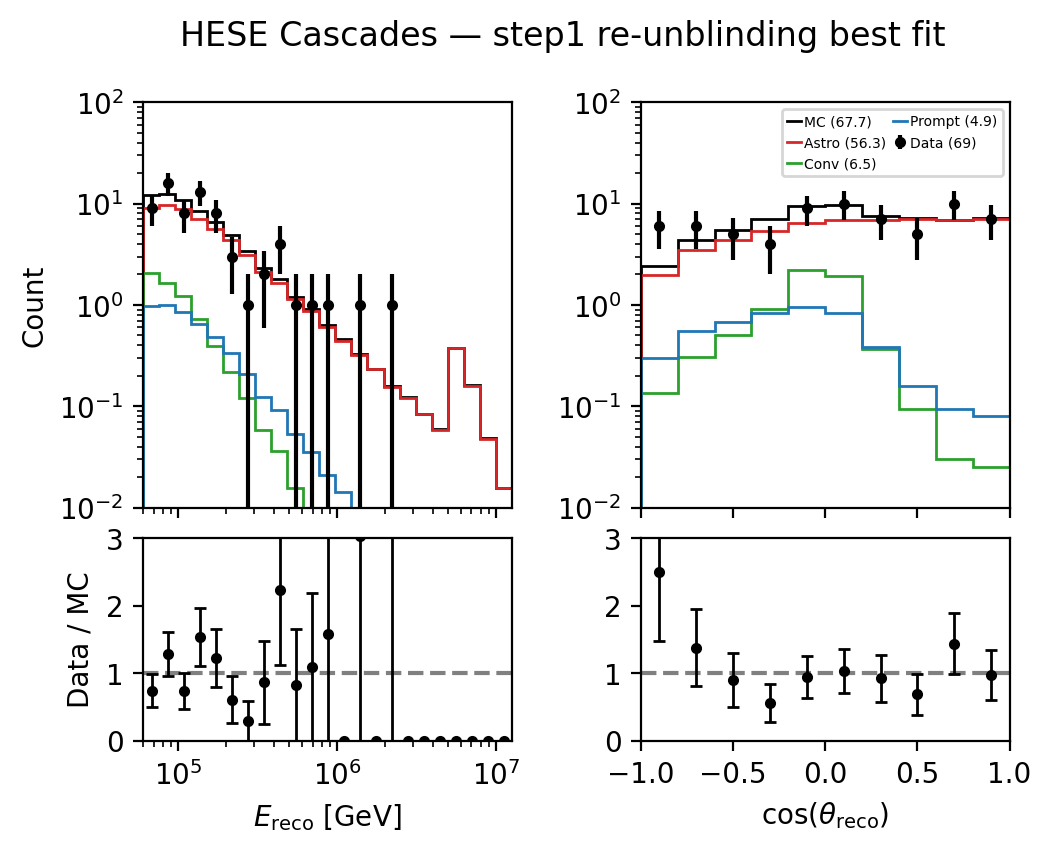
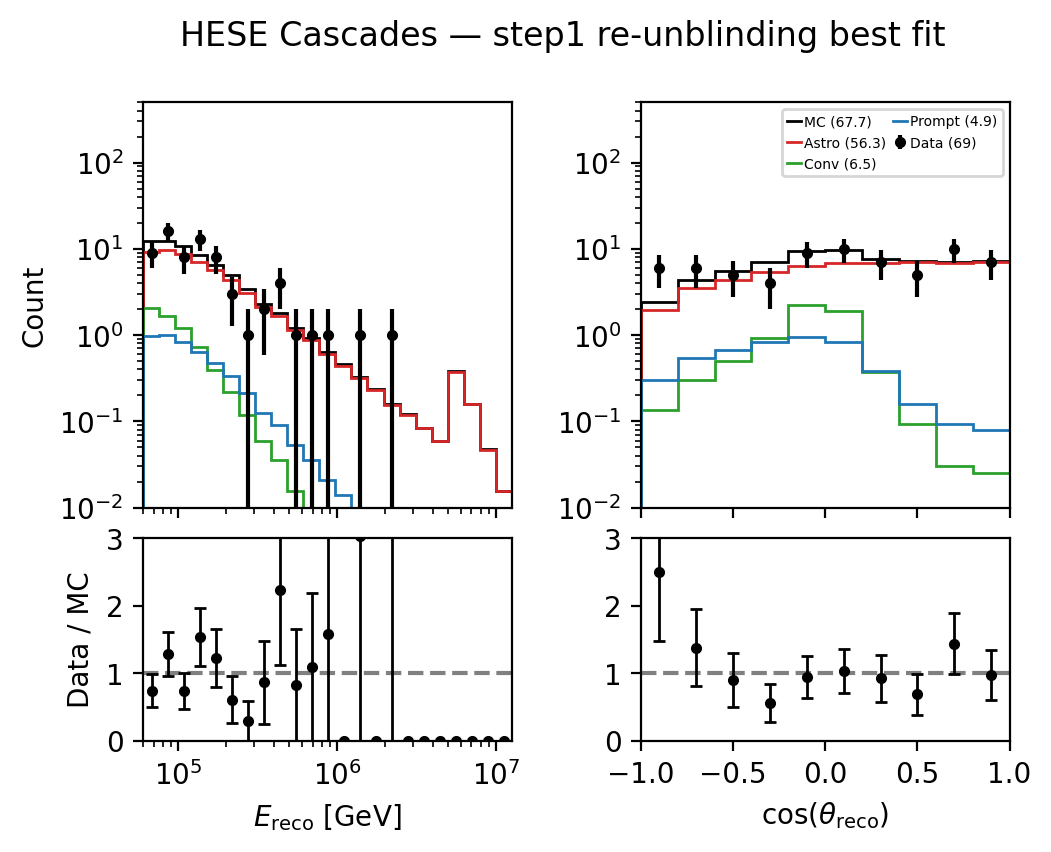
add 2d study markus

diff --git a/NNMFit/notebooks/unblind/step1_hese_flux_reunblind/plot_configs.py b/NNMFit/notebooks/unblind/step1_hese_flux_reunblind/plot_configs.py
@@ -24,8 +24,8 @@ _CASCADES_SPEC = {
         "reco_zenith": np.linspace(-1, 1, 11),
     },
     "dim_info": {
-        "reco_energy": {"log_x": True,  "log_y": True, "x_label": r"$E_{\mathrm{reco}}$ [GeV]",      "sum_axes": 1, "flip": False, "ylim": (1e-2, 1e2)},
-        "reco_zenith": {"log_x": False, "log_y": True, "x_label": r"$\cos(\theta_{\mathrm{reco}})$", "sum_axes": 0, "flip": True,  "ylim": (1e-2, 1e2)},
+        "reco_energy": {"log_x": True,  "log_y": True, "x_label": r"$E_{\mathrm{reco}}$ [GeV]",      "sum_axes": 1, "flip": False, "ylim": (1e-2, 5e2)},
+        "reco_zenith": {"log_x": False, "log_y": True, "x_label": r"$\cos(\theta_{\mathrm{reco}})$", "sum_axes": 0, "flip": True,  "ylim": (1e-2, 5e2)},
     },
     "plot_components": True,
 }

diff --git a/NNMFit/notebooks/unblind/step1_hese_flux_reunblind/studies/README.md b/NNMFit/notebooks/unblind/step1_hese_flux_reunblind/studies/README.md
@@ -13,3 +13,7 @@ With the priors the signal barely moves (astro_norm 1.65 → 1.68, γ 2.81 → 2
 ## compare_newmuon.ipynb
 Compares the step1 fit with fixed detector priors to the same fit with the new muon template (`..._fixedprior_newmuon`, `override/muon/muontemplate_combined_hese_sigma.yaml`: 1σ instead of 2σ template uncertainty, same rate): a SAY table with HESE-7.5, HESE-12 flavor, SAY fixed priors and SAY new muon, a SAY vs Poisson table for the new muon template (pandas and LaTeX), and the 2D (γ, Φ0) scans with HESE-7.5 in the background (`plots_compare_newmuon/`).
 The signal is unchanged (astro_norm 1.683 → 1.680, γ 2.816) while the SAY muon norm rises from 0.58 to 0.72, closing most of the gap to Poisson (0.81); SAY and Poisson agree on the signal (astro_norm 1.680 vs 1.686) and their 2D contours nearly coincide.
+
+## analysis_histograms.ipynb
+Draws 2D heatmaps of the MC expectation in the analysis binning (cascades, tracks, double cascades next to each other) for the latest step1 best fit (`..._fixedprior_newmuon`: fixed detector priors, new muon template), with and without the SnowStorm gradient shift. It counts per channel the bins with an MC expectation of exactly 0 and below 0 and stores them in `plots_analysis_histograms/bin_counts.csv`.
+No bin is negative; with the SnowStorm shift a few bins are clipped to exactly 0 (3/230 cascades, 8/230 tracks, 4/130 double cascades), while without the shift no bin is 0.
